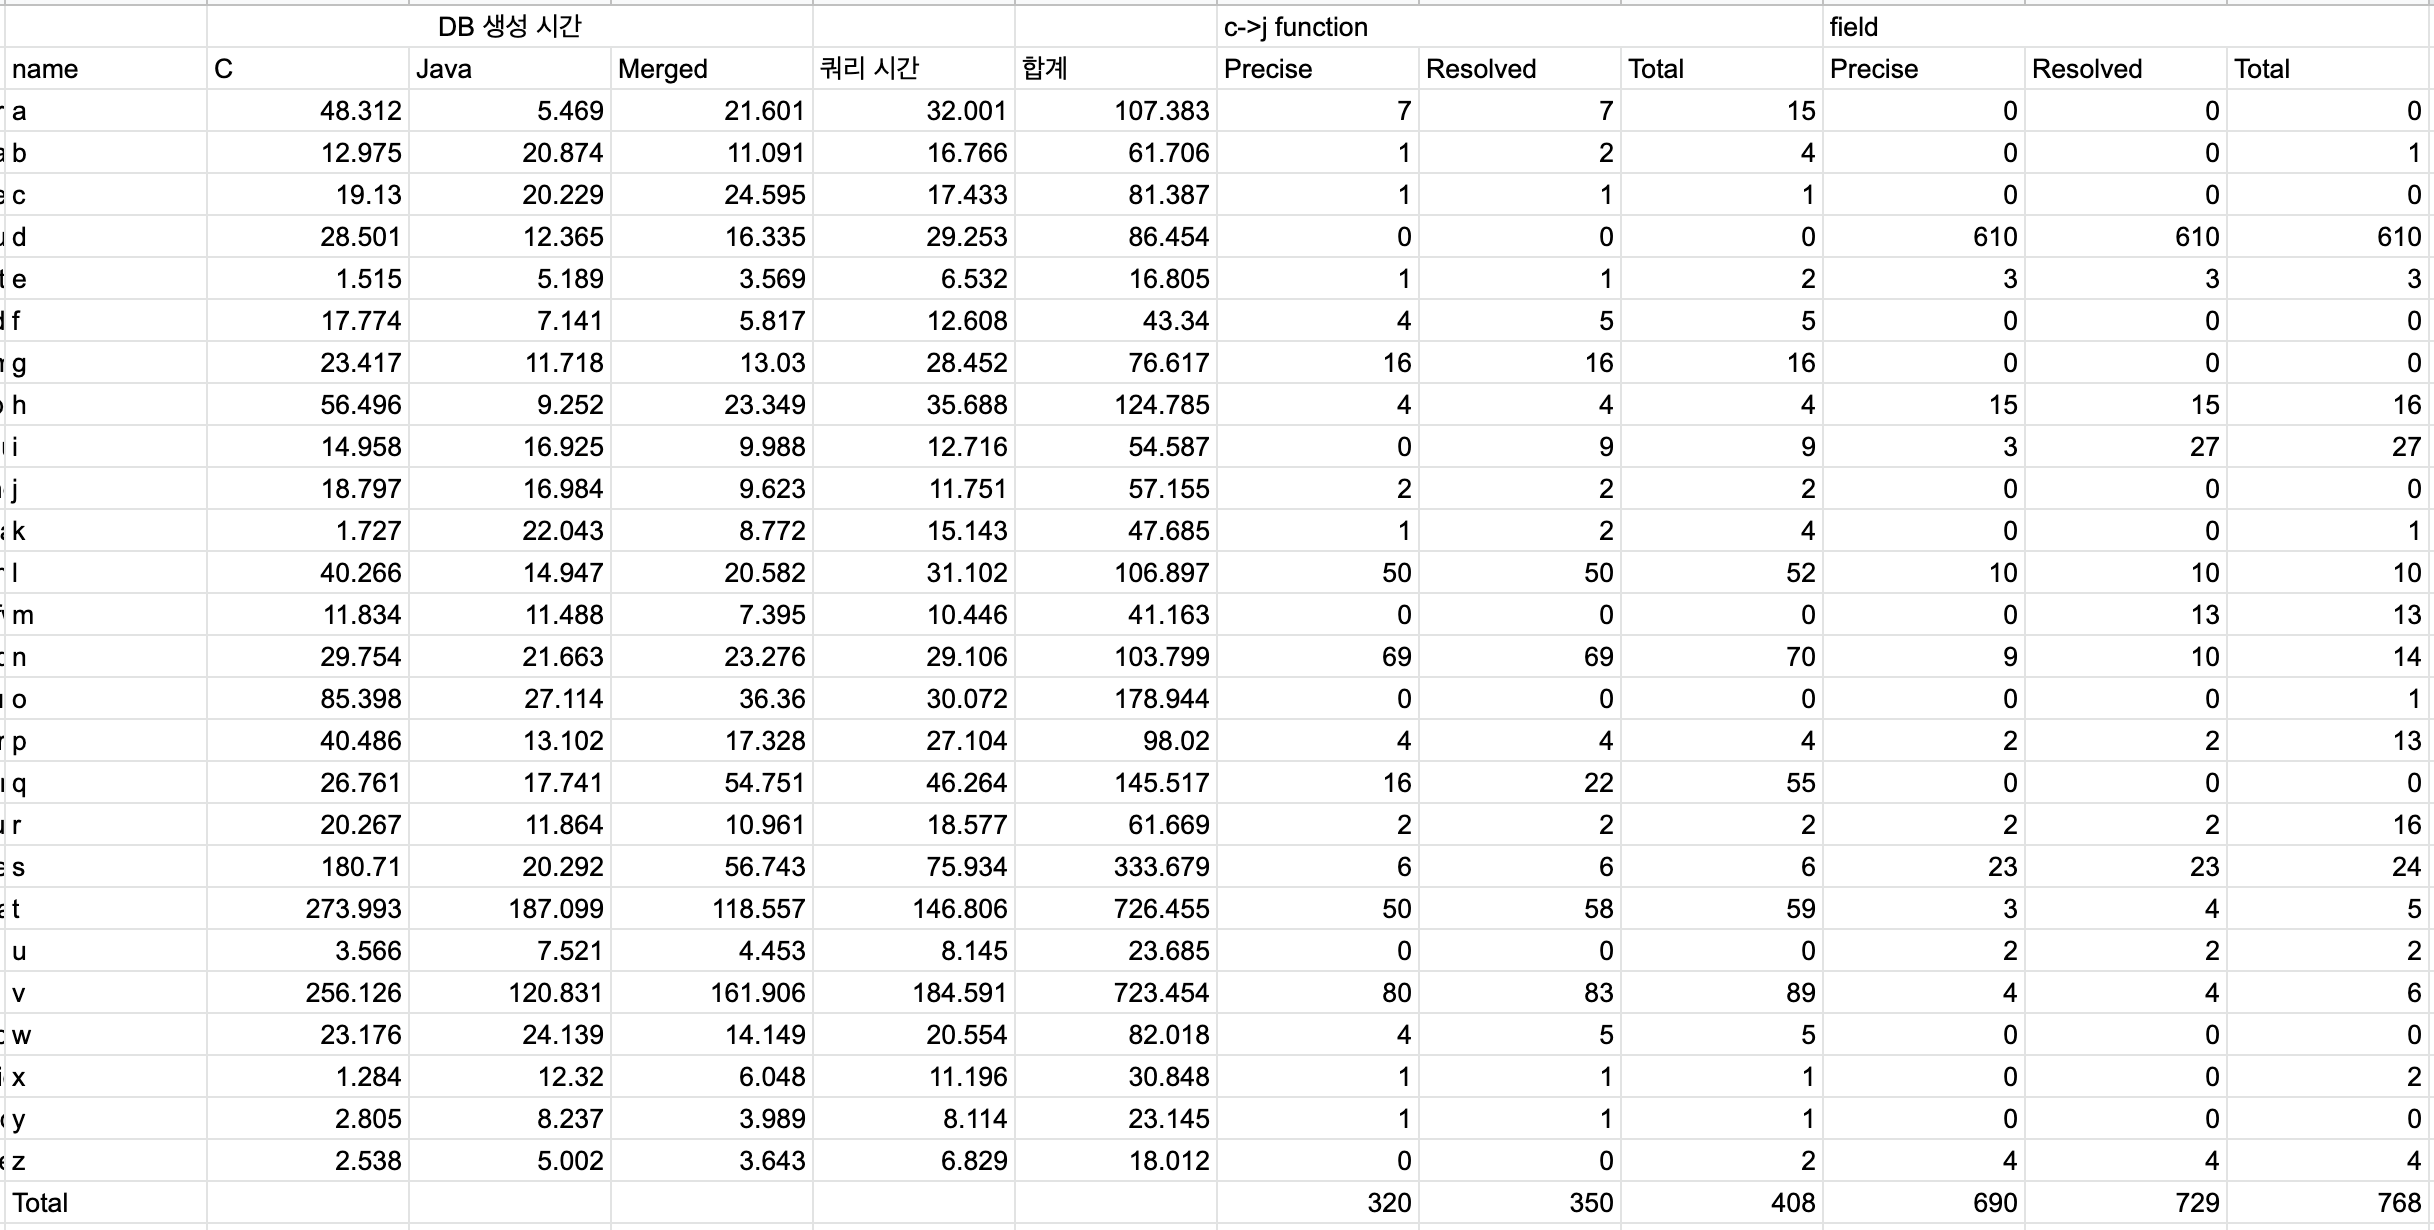
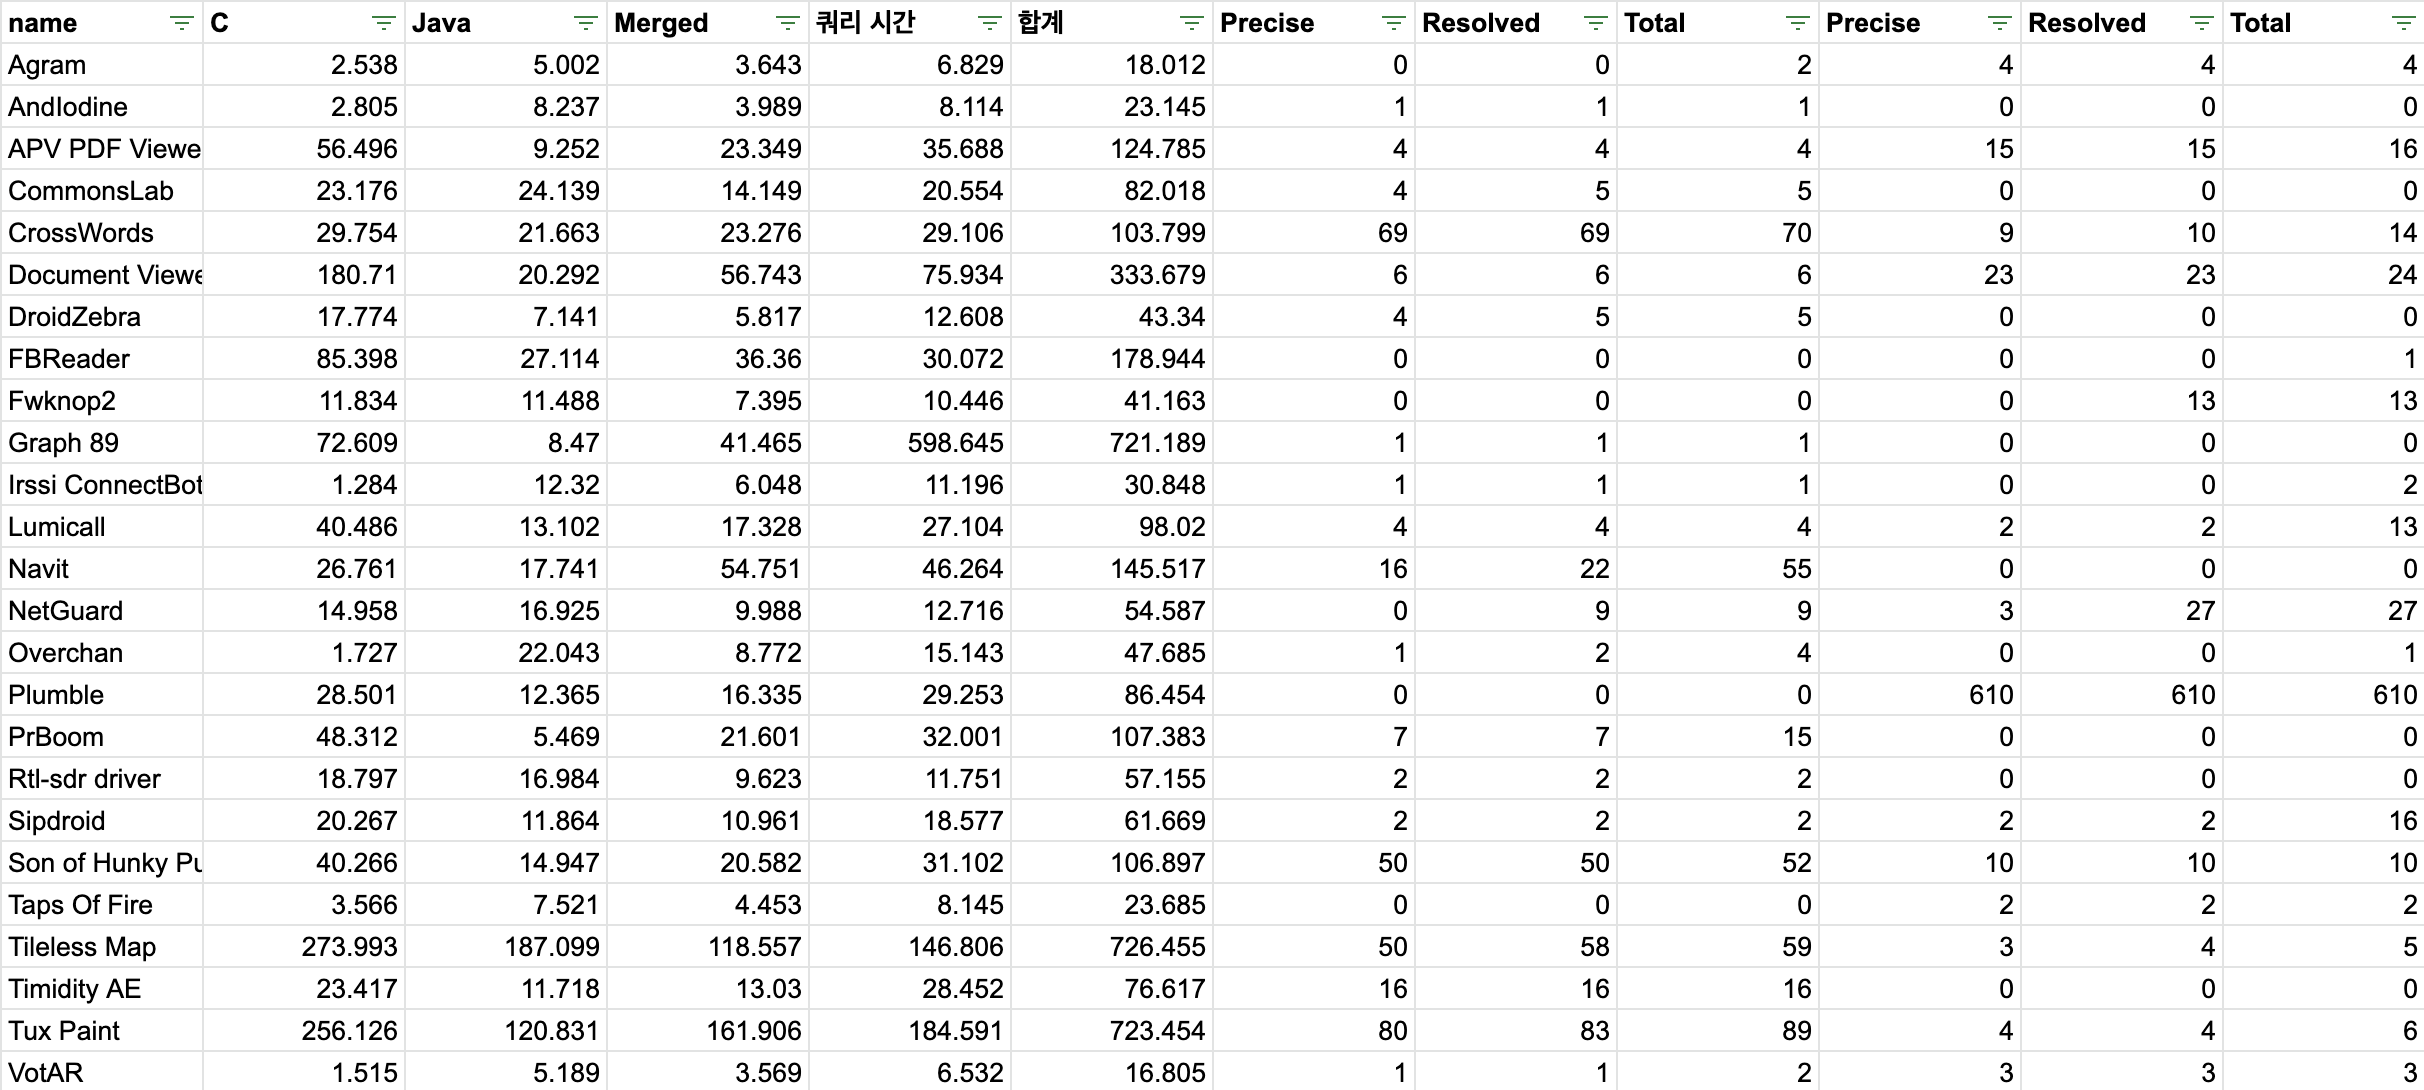
Fix data

diff --git a/icse22/eval.tex b/icse22/eval.tex
@@ -81,12 +81,13 @@ analysis result for the given benchmark.
 \end{figure*}
 
 Table~\ref{fig:table2} shows the analysis result for F-Droid applications. We summarize
-result for \inred{??} of 42 apps, which contains Java method or field access
+result for 25 of 42 apps, which contains Java method or field access
 from C. \inred{The full list of data is available at ???}.
 
 The "time" column denotes the time for creating database and evaluating query.
 The average time for creating DB was ??? seconds, and average time for
-evaluating query was ???  seconds, making the total analysis time ??? seconds.
+evaluating query was ???  seconds, making the average of total analysis time
+??? seconds. 
 
 \begin{figure}[t]
   \centering
@@ -98,11 +99,12 @@ evaluating query was ???  seconds, making the total analysis time ??? seconds.
 \vspace*{-.5em}
 \end{figure}
 
-Figure~\ref{fig:graph} comapres the speedup per application, one by one, with ASE'20.
-The average speed up was x4. Note that time for creating DB includes compile
-time, and once DB is created, multiple queries can be evaluated without
-creating DB again. This means that practically, the practical speed up becomes
-x14.
+Among 25 apps, 13 of them were included in benchmark of ASE'20, and the
+evaluation time with their tool is available.  Figure~\ref{fig:graph} shows the speed per
+application, one by one.  The average speed up was x4. Note that time for
+creating DB is done by comping source code, which is excluded from the calculated
+time of ASE'20. This means that we also have to exxclude the time for creating DB
+from our calculated time, shich makes the practical speed up become x14.
 
 The "precision" columns denotes the precision of dispatching function call
 target, and field access target.  "Precise" means exactly one target was found,
@@ -114,11 +116,11 @@ Compared to the precision result of the state-of-the-art analyzer, our implement
 showed higher precision.
 
 The main reason that the analyzer failed to resolve some of the function calls
-is due to the lack of soundness of base-line CodeQL dataflow analysis library.
-Specifically, if function pointer is involved when calling C function within C,
-CodeQL could not determine the exact call target, and some data which is needed
-for determining the Java method call target is not analyzed to be passed, resulting
-in failure to resolving Java method target.
+or field accesses is due to the lack of soundness of base-line CodeQL dataflow
+analysis library.  Specifically, if function pointer is involved when calling C
+function within C, CodeQL could not determine the exact call target, and some
+data which is needed for determining the Java method call target is not
+analyzed to be passed, resulting in failure to resolving Java method target.
 
 In conclusion, considering that our analyzer could successfully analyze the
 benchmark applications with higher precision in significantly shorter time
@@ -144,9 +146,9 @@ previous research[2]. "Missing fun" denotes the case where C function is
 missing even if it is called from java. "Type mismatch" denotes the case where
 the declaration of native function in Java has different return type or
 parameter type with its actual definition in C.  "Wrong signature" denotes the
-case where "Call<type>Method" uses wrong signature for the java method. The
+case where "GetMethodID" uses wrong signature for the java method. The
 number in each cell denotes the number of alarms, and the number in the
-parenthesis denotes the number of true alarm.
+parenthesis denotes the number of false alarm, if any.
 
 \begin{figure}[t]
   \centering
@@ -165,7 +167,7 @@ if (folder != null) {
 EmulatorActivity.nativeInitGraph89(..., tmp);
 
 //wrappercommonjni.c
-void Java_com_graph89_emulationcore_EmulatorActivity_nativeInitGraph89(..., jstring tmp_dir) {
+void Java_..._nativeInitGraph89(..., jstring tmp_dir) {
    (*env)->GetStringUTFChars(env, tmp_dir, 0);
    ...
 }
@@ -184,8 +186,9 @@ public class JpegRedaction {
   ...
 }
 
-//org_witness_securesmartcam_jpegredaction_JpegRedaction.cpp
-void Java_org_witness_securesmartcam_jpegredaction_JpegRedaction_redactRegions(...) {
+//JpegRedaction.cpp
+void
+Java_org_witness_securesmartcam_jpegredaction_JpegRedaction_redactRegions(...) {
   ...
 }
     \end{lstlisting}
@@ -199,7 +202,7 @@ void Java_org_witness_securesmartcam_jpegredaction_JpegRedaction_redactRegions(.
 private native static List<PageTextBox> search(...);
 
 //mupdfdroidbridge.c
-jobjectArray Java_org_ebookdroid_droids_mupdf_codec_MuPdfPage_search(...){
+jobjectArray Java_..._search(...){
    ...
  }
     \end{lstlisting}
@@ -254,13 +257,14 @@ for dispatching java method from C, using "GetMethodID" function. An interesting
 point is that, the signatures were defined in C macro, and the wrong signature
 was the same as the next one.
 
-No false positives were found for latter three kinds of bugs.  There were some
-false positive for the first bug, the null dereference bug. The reason for
-these false positives were mainly due to, again, imprecise intra-language
-dataflow. For example, the analyzer could not handle the case where a variable
-is reassigned to a non-null value only if the value of a variable is null and
-then the variable is derefernced, resulting in giving the false positive that
-null value can be dereferenced.
+We manually inspected the source code if the reported alarms are false positive
+or not. No false positives were found for latter three kinds of bugs.  There
+were some false positive for the first bug, the null dereference bug. The
+reason for these false positives were mainly due to, again, imprecise
+intra-language dataflow. For example, the analyzer could not handle the case
+where a variable is reassigned to a non-null value in a diffrent branch or a
+different function, resulting in giving the false positive that null value can
+be dereferenced.
 
 In summary, we can conclude that our analyzer is practical and useful enough,
 in that we could find previously unknown bugs/security vulnerabilities using
